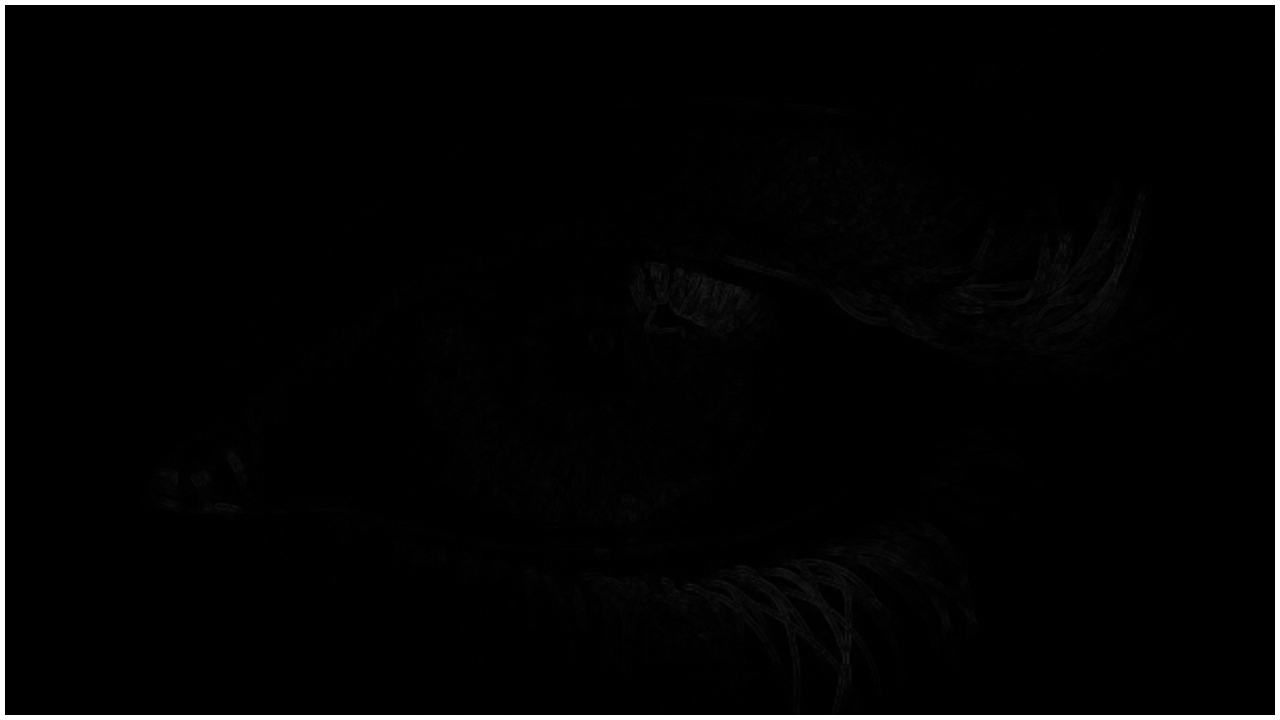
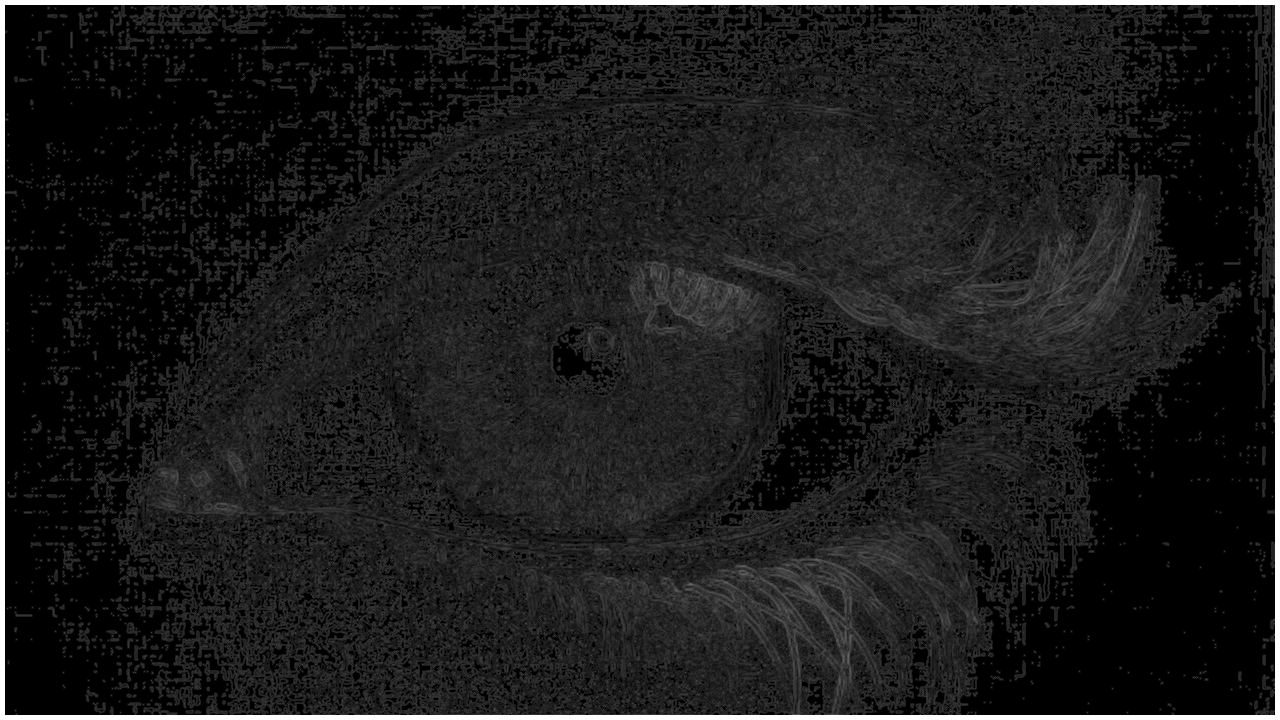
added laplace sharpener code

diff --git a/Eyebot3/LaplaceFilter.cs b/Eyebot3/LaplaceFilter.cs
@@ -28,14 +28,15 @@ namespace Eyebot3
         {
             var centerBrightness = getAreaBrightness(centerResolution, xLoc, yLoc, image);
 
-            //sharpener experimentation
-            //var sumDifference = Math.Abs(centerBrightness - surroundBrightness);
-            //end sharpener
+            var rawContrast = getSurroundContrast(centerResolution, surroundResolution, xLoc, yLoc, centerBrightness, image);
 
-            return (getSurroundContrast(centerResolution, surroundResolution, xLoc, yLoc, centerBrightness, image));
+            return (laplaceSharpener(rawContrast, .5));
         }
 
-
+        public int laplaceSharpener(int inputBrightness, double sharpness)
+        {
+            return (int)(Math.Pow((inputBrightness / 255.0), sharpness) * 255.0);
+        }
 
         public int getSurroundContrast(int skipResolution, int getResolution, int xLoc, int yLoc, int centerBrightness, Bitmap image)
         {

diff --git a/Eyebot3/Program.cs b/Eyebot3/Program.cs
@@ -23,7 +23,6 @@ namespace Eyebot3
             {
                 for (int j = 5; j < mappedImage.Height - 5; j++)
                 {
-                    //var brightness = (int)(mappedImage.GetPixel(i, j).GetBrightness() * 255);
                     var brightness = laplaceFilter.getLaplaceBrightness(mappedImage, i, j);
                     copiedImage.SetPixel(i, j, Color.FromArgb(255, brightness, brightness, brightness));
                 }
